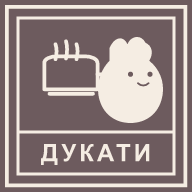
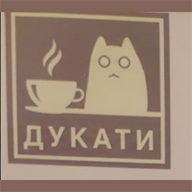
Put the original cafe sign in the header instead of the SVG recreation.

diff --git a/frontend/src/components/Header.tsx b/frontend/src/components/Header.tsx
@@ -14,9 +14,9 @@ export function Header() {
       <div className="max-w-lg mx-auto px-4 py-3 flex items-center justify-between">
         <Link to="/" className="flex items-center min-w-0" aria-label="Дукати">
           <img
-            src={publicUrl('logo.svg')}
+            src={publicUrl('logo.png')}
             alt="Дукати"
-            className="h-10 w-10 shrink-0 block"
+            className="h-14 w-14 shrink-0 block"
           />
         </Link>
         <div className="flex items-center gap-3">

diff --git a/frontend/index.html b/frontend/index.html
@@ -8,7 +8,6 @@
     <meta name="apple-mobile-web-app-status-bar-style" content="default" />
     <link rel="apple-touch-icon" href="%BASE_URL%icon-192.png" />
     <link rel="icon" type="image/png" href="%BASE_URL%logo.png" />
-    <link rel="icon" type="image/svg+xml" href="%BASE_URL%logo.svg" />
     <title>Кофейня Дукати</title>
   </head>
   <body>
